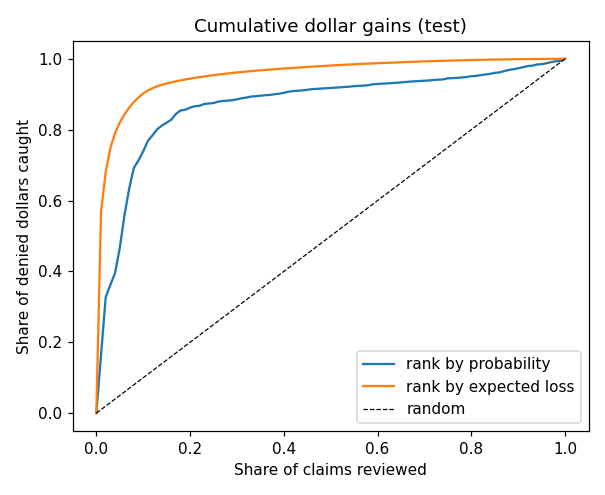
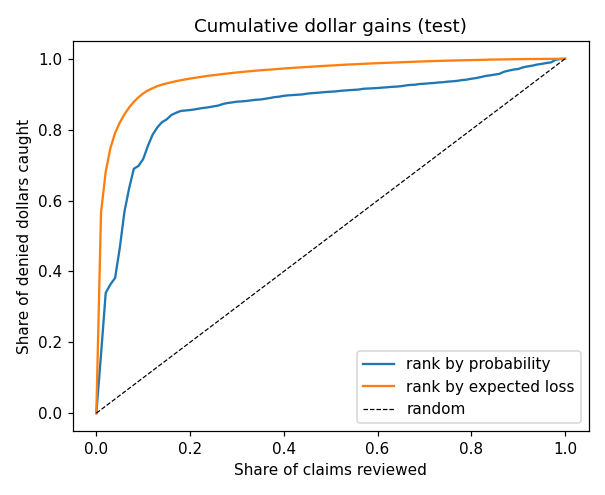
feat: final 19-feature model, ablation result and docs

diff --git a/tests/test_training.py b/tests/test_training.py
@@ -1,8 +1,12 @@
+import json
+import sys
+
 import numpy as np
 import pandas as pd
 import pytest
 
 from src.training import features as F
+from src.training import train as train_module
 from src.training.calibration import PlattCalibrator
 from src.training.metrics import (
     basic_metrics,
@@ -165,3 +169,35 @@ def test_end_to_end_training(tmp_path):
         "dx_group"
         not in (tmp_path / "models" / "feature_spec.json").read_text().split("categories")[0]
     )
+
+
+def test_cli_drop_flag_reaches_training(tmp_path, monkeypatch):
+    """The --drop option on the command line must change the model that is trained."""
+    feats = tmp_path / "features.parquet"
+    make_features(12000).to_parquet(feats, index=False)
+    argv = [
+        "train",
+        "--features",
+        str(feats),
+        "--labels",
+        str(tmp_path / "none.parquet"),
+        "--reports",
+        str(tmp_path / "r"),
+        "--models",
+        str(tmp_path / "m"),
+        "--n-estimators",
+        "20",
+        "--lr-rows",
+        "4000",
+        "--shap-rows",
+        "200",
+        "--drop",
+        "dx_group,drg_code",
+    ]
+    monkeypatch.setattr(sys, "argv", argv)
+    train_module.main()
+    spec = json.loads((tmp_path / "m" / "feature_spec.json").read_text())
+    assert "dx_group" not in spec["features"] and "drg_code" not in spec["features"]
+    assert len(spec["features"]) == 19
+    log = pd.read_csv(tmp_path / "r" / "run_log.csv")
+    assert log.loc[0, "dropped"] == "dx_group,drg_code"

diff --git a/src/training/train.py b/src/training/train.py
@@ -402,6 +402,7 @@ def main() -> None:
         a.review_cost,
         a.fix_rate,
         a.seed,
+        drop=tuple(c.strip() for c in a.drop.split(",") if c.strip()),
     )
 
 

diff --git a/reports/model_report.md b/reports/model_report.md
@@ -1,6 +1,6 @@
 # Model report
 
-Generated 2026-11-08T12:21:11 (commit 6154b96). Labels are simulated (ADR-001), so scores show how well patterns are recovered, not how a real payer behaves.
+Generated 2026-11-09T12:37:04 (commit 89f4865). Labels are simulated (ADR-001), so scores show how well patterns are recovered, not how a real payer behaves.
 
 ## Data split (ADR-011)
 - train 3,844,106 claims, valid 807,486, test 421,232
@@ -12,48 +12,48 @@ Generated 2026-11-08T12:21:11 (commit 6154b96). Labels are simulated (ADR-001), 
 | base rate only | valid | 0.5000 | 0.0940 | 0.1009 | 0.0948 | 1.0085 | 0.0852 | 0.3119 |
 | claim-type rate | valid | 0.5389 | 0.1039 | 0.1507 | 0.1416 | 1.5067 | 0.0848 | 0.3100 |
 | logistic regression | valid | 0.7623 | 0.4202 | 0.4969 | 0.4669 | 4.9691 | 0.0676 | 0.2502 |
-| LightGBM | valid | 0.7855 | 0.4964 | 0.5271 | 0.4953 | 5.2710 | 0.0616 | 0.2307 |
-| LightGBM calibrated | valid | 0.7855 | 0.4964 | 0.5271 | 0.4953 | 5.2710 | 0.0616 | 0.2307 |
+| LightGBM | valid | 0.7866 | 0.4978 | 0.5275 | 0.4957 | 5.2751 | 0.0615 | 0.2305 |
+| LightGBM calibrated | valid | 0.7866 | 0.4978 | 0.5275 | 0.4957 | 5.2751 | 0.0615 | 0.2305 |
 | oracle (true probability) | valid | 0.8427 | 0.5543 | 0.5600 | 0.5262 | 5.5996 | 0.0583 | 0.2155 |
 | base rate only | test | 0.5000 | 0.0956 | 0.1029 | 0.0983 | 1.0288 | 0.0865 | 0.3154 |
 | claim-type rate | test | 0.5387 | 0.1054 | 0.1472 | 0.1406 | 1.4715 | 0.0861 | 0.3136 |
 | logistic regression | test | 0.7588 | 0.4175 | 0.4936 | 0.4717 | 4.9356 | 0.0690 | 0.2544 |
-| LightGBM | test | 0.7819 | 0.4960 | 0.5203 | 0.4972 | 5.2026 | 0.0627 | 0.2343 |
-| LightGBM calibrated | test | 0.7819 | 0.4960 | 0.5203 | 0.4972 | 5.2026 | 0.0627 | 0.2343 |
+| LightGBM | test | 0.7828 | 0.4967 | 0.5206 | 0.4976 | 5.2061 | 0.0626 | 0.2341 |
+| LightGBM calibrated | test | 0.7828 | 0.4967 | 0.5206 | 0.4976 | 5.2061 | 0.0626 | 0.2342 |
 | oracle (true probability) | test | 0.8416 | 0.5565 | 0.5552 | 0.5306 | 5.5518 | 0.0592 | 0.2184 |
 
 ## Review queue on the test period (assumptions: review cost $10.00 per claim, 50% of caught denials fixed)
 | review_share | claims_reviewed | precision_by_probability | recall_by_probability | recall_by_expected_loss | dollars_share_by_probability | net_benefit_by_probability | dollars_share_by_expected_loss | net_benefit_by_expected_loss | dollars_share_random |
 |---|---|---|---|---|---|---|---|---|---|
-| 0.0100 | 4213.0000 | 0.8778 | 0.0919 | 0.0567 | 0.1644 | 1346320.0000 | 0.5682 | 4755475.0000 | 0.0100 |
-| 0.0500 | 21062.0000 | 0.6904 | 0.3612 | 0.2287 | 0.4663 | 3727135.0000 | 0.8197 | 6711080.0000 | 0.0500 |
-| 0.1000 | 42124.0000 | 0.4972 | 0.5203 | 0.3907 | 0.7391 | 5819345.0000 | 0.9023 | 7197665.0000 | 0.1000 |
-| 0.2000 | 84247.0000 | 0.3076 | 0.6438 | 0.5832 | 0.8622 | 6437485.0000 | 0.9440 | 7128705.0000 | 0.2000 |
+| 0.0100 | 4213.0000 | 0.8770 | 0.0918 | 0.0573 | 0.1658 | 1358265.0000 | 0.5664 | 4740640.0000 | 0.0100 |
+| 0.0500 | 21062.0000 | 0.6921 | 0.3621 | 0.2289 | 0.4662 | 3725880.0000 | 0.8200 | 6713620.0000 | 0.0500 |
+| 0.1000 | 42124.0000 | 0.4976 | 0.5206 | 0.3914 | 0.7173 | 5635430.0000 | 0.9022 | 7197130.0000 | 0.1000 |
+| 0.2000 | 84247.0000 | 0.3081 | 0.6448 | 0.5845 | 0.8554 | 6380430.0000 | 0.9442 | 7129845.0000 | 0.2000 |
 
 ## Calibration (test)
-- expected calibration error: raw 0.0022, Platt 0.0020
+- expected calibration error: raw 0.0014, Platt 0.0016
 
 ## By claim type (test, calibrated LightGBM)
 | claim_type | claims | denial_rate | roc_auc | pr_auc | recall_at_10 |
 |---|---|---|---|---|---|
-| carrier | 357801 | 0.0877 | 0.7661 | 0.4705 | 0.5184 |
-| inpatient | 4324 | 0.1346 | 0.8303 | 0.5296 | 0.4313 |
-| outpatient | 59107 | 0.1403 | 0.8213 | 0.5709 | 0.4401 |
+| carrier | 357801 | 0.0877 | 0.7673 | 0.4711 | 0.5179 |
+| inpatient | 4324 | 0.1346 | 0.8297 | 0.5361 | 0.4433 |
+| outpatient | 59107 | 0.1403 | 0.8216 | 0.5715 | 0.4397 |
 
 ## Top features by mean |SHAP|
 | feature | mean_abs_shap |
 |---|---|
-| days_to_file | 0.2543 |
-| n_lines | 0.1740 |
-| auth_on_file | 0.1300 |
-| procedure_unknown | 0.1044 |
-| amount | 0.0892 |
-| provider_denial_rate_smoothed | 0.0766 |
-| claim_type | 0.0474 |
-| coverage_active | 0.0469 |
-| dx_group | 0.0357 |
-| auth_required | 0.0330 |
-| amount_log | 0.0148 |
-| provider_claims_prior_30d | 0.0095 |
+| days_to_file | 0.2548 |
+| n_lines | 0.1738 |
+| auth_on_file | 0.1299 |
+| procedure_unknown | 0.1030 |
+| amount | 0.0862 |
+| provider_denial_rate_smoothed | 0.0718 |
+| claim_type | 0.0534 |
+| coverage_active | 0.0471 |
+| auth_required | 0.0278 |
+| amount_log | 0.0222 |
+| provider_prior_denied | 0.0145 |
+| provider_prior_claims | 0.0110 |
 
 Figures are in `reports/figures/`.

diff --git a/docs/decisions.md b/docs/decisions.md
@@ -120,3 +120,8 @@ Format: ID, date, decision, why, alternatives considered. Add one entry for ever
 - **Decision:** The project must run end to end on a fresh clone with no paid or expiring accounts. (1) The appeal copilot uses local retrieval (TF-IDF) and template drafting by default; an LLM is an optional plug-in switched on by an environment variable and never required. (2) BigQuery and dbt-bigquery stay as the documented cloud path, and the same dbt models also run locally on DuckDB. (3) The deployed app uses packaged model files and sample data, with no live warehouse calls. (4) Dependencies are pinned in `requirements-lock.txt`. (5) Policy excerpts are stored in the repo with their source and date.
 - **Why:** The earlier API key expired after one month, BigQuery sandbox tables expire after 60 days, and cloud logins time out.
 - **Consequence:** Letters are a little plainer than LLM output, but the repo and the demo keep working indefinitely.
+
+### ADR-013 ablation (2026-11-09)
+- Dropping `dx_group` and `drg_code` from LightGBM gave test ROC-AUC 0.7828 (full model 0.7819), PR-AUC 0.4967 (0.4960), recall at top 10% 0.5206 (0.5203) and raw calibration error 0.0014 (0.0022), with 185 trees instead of 167. The differences are very small: read it as "no worse and simpler", not as a gain. Decision: the final model uses the remaining 19 features.
+- Caveat: the simulated labels do not depend on diagnosis or DRG by design, so this result is specific to them. With real payer data those fields would likely matter and should be tested again.
+- Training is reproducible: repeated full-model runs with the same seed gave identical scores.

diff --git a/docs/PROJECT_LOG.md b/docs/PROJECT_LOG.md
@@ -164,3 +164,8 @@ At each milestone the log gets an appended block (a short entry for the findings
 - **Week 4 (model):** LightGBM beats logistic regression and the constant baselines, reaches about 89% of the oracle's PR-AUC and 94% of its recall at 10%, is stable from validation to test, and is well calibrated. Expected-loss ranking catches 90% of denied dollars in the top 10% (74% by probability). See `docs/model_card.md` and `reports/model_report.md`.
 - **Lessons:** isotonic calibration created ties and lowered PR-AUC, so Platt scaling is used. MLflow was skipped in favor of `reports/run_log.csv` to avoid dependency conflicts with dbt.
 - **Progress:** about 55%. Next: Week 5 (root-cause analysis and the RAG appeal copilot).
+
+## Update 9 Nov 2026: final model
+- Ablation without the diagnosis group and DRG features scored the same or slightly better (ROC-AUC 0.7828 vs 0.7819, PR-AUC 0.4967 vs 0.4960), so the final LightGBM uses 19 features (ADR-013). Full-feature report kept as `reports/model_report_full_features.md`.
+- A bug found on the way: the command-line `--drop` option was read but not passed to the training function, so the first "ablation" silently ran the full model. A test now runs the real command-line entry point.
+- Progress: about 62%. Next: Week 5 (root-cause analysis and the offline appeal copilot).

diff --git a/reports/model_report_full_features.md b/reports/model_report_full_features.md
@@ -1,6 +1,6 @@
 # Model report
 
-Generated 2026-11-08T12:44:35 (commit a3cdb1a). Labels are simulated (ADR-001), so scores show how well patterns are recovered, not how a real payer behaves.
+Generated 2026-11-08T12:21:11 (commit 6154b96). Labels are simulated (ADR-001), so scores show how well patterns are recovered, not how a real payer behaves.
 
 ## Data split (ADR-011)
 - train 3,844,106 claims, valid 807,486, test 421,232
